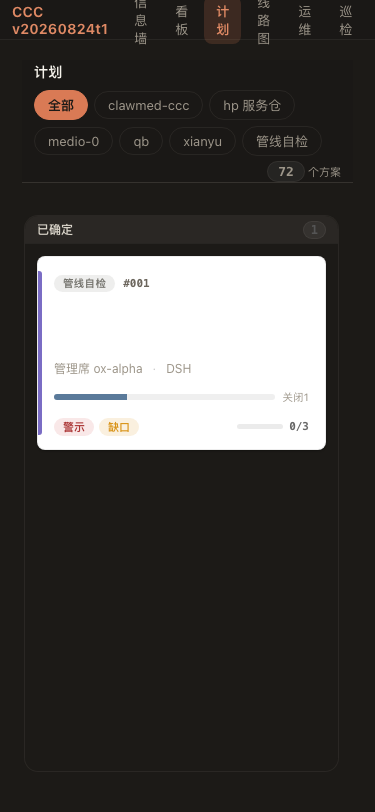
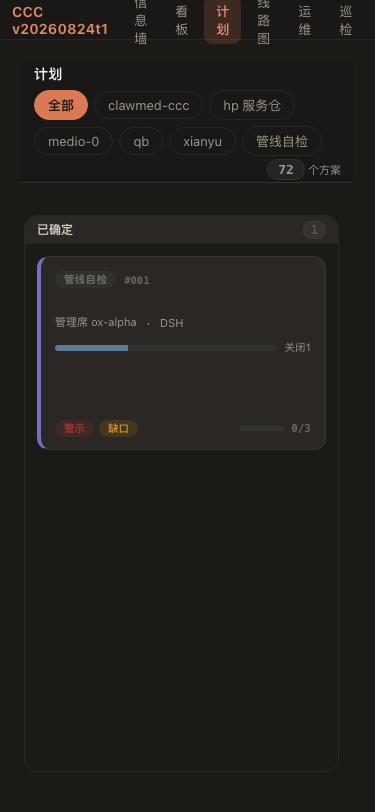
fix(ui): 六页页头精确对齐墙基准 + 计划卡重写为运维项目健康语言（老板实测反馈二期）
① 页头未对齐根因：k-topbar 挂上后各页旧工具栏样式仍在层叠中占优。
   现以 #view-xxx 前缀强制对齐墙 topbar 基准（32px/sidebar 底/0.5px 底边/
   4×12 padding），按钮统一墙 theme-btn 形制，搜索框紧凑化，
   k-topbar-stats 补 margin-left:auto 推右（与墙 stats 一致）。
② 计划卡重写：发现 .pcard 最新定义为烤死浅色样式（#fff 底/黑系边影），
   暗色主题刺眼。整族重写为运维「项目健康」语言：
   左 4px 状态色条（border-left + --pcard-accent 变量，JS 同步改造）、
   surface 底、12px 圆角、无投影；
   字阶定稿：标题 13/650（3 行钳制）· 元信息 11 · ID/角标 10.5 mono ·
   流程注释 10.5；hover 仅阴影不位移。列宽按老板要求不动。

取证：六页页头 computed 全部 32px + sidebar 底；卡片 borderLeft
4px 状态紫、radius 12、标题 13px；矩阵内 plans 六张截图同步刷新。

diff --git a/server/web/legacy-chat/css/components.css b/server/web/legacy-chat/css/components.css
@@ -2341,3 +2341,98 @@
   box-shadow: var(--ccc-shadow-sm);
 }
 .pcard:hover { box-shadow: var(--ccc-shadow-md); }
+
+/* ══ 046-M2 微调二期（2026-08-24 老板实测反馈）══ */
+
+/* ── ① 六页页头精确对齐墙 topbar ──
+ * 墙基准：min-height 32 / padding 4×12 / bg sidebar / 底边 0.5px；
+ * 标题 14·600；右侧统计 11 muted 推右；按钮 = 墙 theme-btn 形制。 */
+#view-plans .plans-toolbar,
+#view-board .board-toolbar,
+#view-roadmap .board-toolbar,
+#view-console .console-bar,
+#view-ops .ops-bar,
+#view-dsh .dsh-bar {
+  gap: 6px;
+  padding: var(--ccc-space-xs) var(--ccc-space-md) !important;
+  min-height: var(--ccc-h-topbar);
+  background: var(--ccc-bg-sidebar);
+  border-bottom: 0.5px solid var(--ccc-border-base);
+}
+#view-board .board-toolbar { padding-bottom: var(--ccc-space-xs) !important; }
+.k-topbar-title {
+  font-size: 14px; font-weight: 600; letter-spacing: 0.3px;
+  color: var(--ccc-text-base); white-space: nowrap;
+}
+.k-topbar-stats {
+  margin-left: auto;
+  font-size: 11px; color: var(--ccc-text-muted); white-space: nowrap;
+}
+/* 页面副标题：贴标题排布，不与统计抢推右位 */
+.console-sub, .ops-sub, .dsh-sub { margin-left: 0; }
+.dsh-last { margin-left: auto; }
+.dsh-bar .k-topbar-stats[class*='dsh-sub'] { margin-left: 0; }
+
+/* 工具栏按钮统一为墙 theme-btn 形制 */
+#view-board .board-toolbar .hub-btn,
+#view-roadmap .board-toolbar .hub-btn,
+#view-console .console-bar .hub-btn,
+#view-ops .ops-bar .hub-btn,
+#view-dsh .dsh-bar .hub-btn,
+#board-ws-btns button {
+  background: transparent; color: var(--ccc-text-muted);
+  border: 1px solid var(--ccc-border-base); border-radius: 6px;
+  padding: 2px 8px; font-size: 11px; font-weight: 500;
+  cursor: pointer; transition: all var(--ccc-transition-fast);
+  white-space: nowrap;
+}
+#view-board .board-toolbar .hub-btn:hover,
+#view-roadmap .board-toolbar .hub-btn:hover,
+#view-console .console-bar .hub-btn:hover,
+#view-ops .ops-bar .hub-btn:hover,
+#view-dsh .dsh-bar .hub-btn:hover,
+#board-ws-btns button:hover { background: var(--ccc-bg-hover); color: var(--ccc-text-secondary); }
+#view-board #board-search {
+  padding: 3px 10px; font-size: 11px;
+  background: var(--ccc-bg-surface); border-radius: 999px;
+}
+
+/* ── ② 计划卡片重写：对齐运维「项目健康」设计语言 ──
+ * 左 4px 状态色条（border-left 承担）+ surface 底 + 12px 圆角 + 无投影；
+ * 字阶：标题13/650 · 元信息11 · ID/角标10.5 · 流程注释10.5。 */
+.pcard {
+  gap: 8px;
+  padding: 12px 14px;
+  background: var(--ccc-bg-surface);
+  border: 1px solid var(--ccc-border-subtle);
+  border-left-width: 4px;
+  border-left-color: var(--pcard-accent, var(--ccc-border-base));
+  border-radius: 12px;
+  box-shadow: none;
+}
+.pcard:hover {
+  transform: none;
+  box-shadow: var(--ccc-shadow-md);
+  border-color: var(--ccc-border-base);
+}
+.pcard-edge { display: none; } /* 左色条已由 border-left 承担 */
+.pcard-title {
+  font-size: 13px; font-weight: 650; line-height: 1.45;
+  color: var(--ccc-text-base);
+  margin: 0 0 2px; min-height: 0;
+  -webkit-line-clamp: 3;
+}
+.pcard-id { font-family: var(--ccc-font-mono); font-size: 10.5px; color: var(--ccc-text-faint); }
+.pcard-meta { font-size: 11px; color: var(--ccc-text-muted); margin-bottom: 2px; }
+.pcard-open {
+  border-color: var(--ccc-border-base);
+  color: var(--ccc-text-muted);
+  background: transparent;
+  font-size: 10.5px; padding: 2px 8px;
+}
+.pcard-open:hover {
+  border-color: var(--ccc-info); color: var(--ccc-info);
+  background: color-mix(in srgb, var(--ccc-info) 6%, transparent);
+}
+.pcard-tag { font-weight: 600; font-size: 10.5px; }
+.pcard-flow-meta { font-size: 10.5px; color: var(--ccc-text-muted); }

diff --git a/server/web/legacy-chat/js/pages/plansPage.js b/server/web/legacy-chat/js/pages/plansPage.js
@@ -205,8 +205,7 @@ function renderPlanItem(plan) {
   const title = String(plan.title || '').replace('方案 · ', '');
 
   return `
-    <article class="pcard" data-path="${esc(plan.path)}" tabindex="0" role="button" draggable="true" aria-label="查看方案 ${esc(title)}">
-      <span class="pcard-edge" style="background:${color}"></span>
+    <article class="pcard" data-path="${esc(plan.path)}" tabindex="0" role="button" draggable="true" aria-label="查看方案 ${esc(title)}" style="--pcard-accent:${color}">
       <div class="pcard-head">
         <span class="pcard-proj" style="background:${projTint};color:${projColor}">${esc(_projectDisplay[plan.project] || plan.project)}</span>
         <span class="pcard-id">#${esc(plan.num)}</span>
